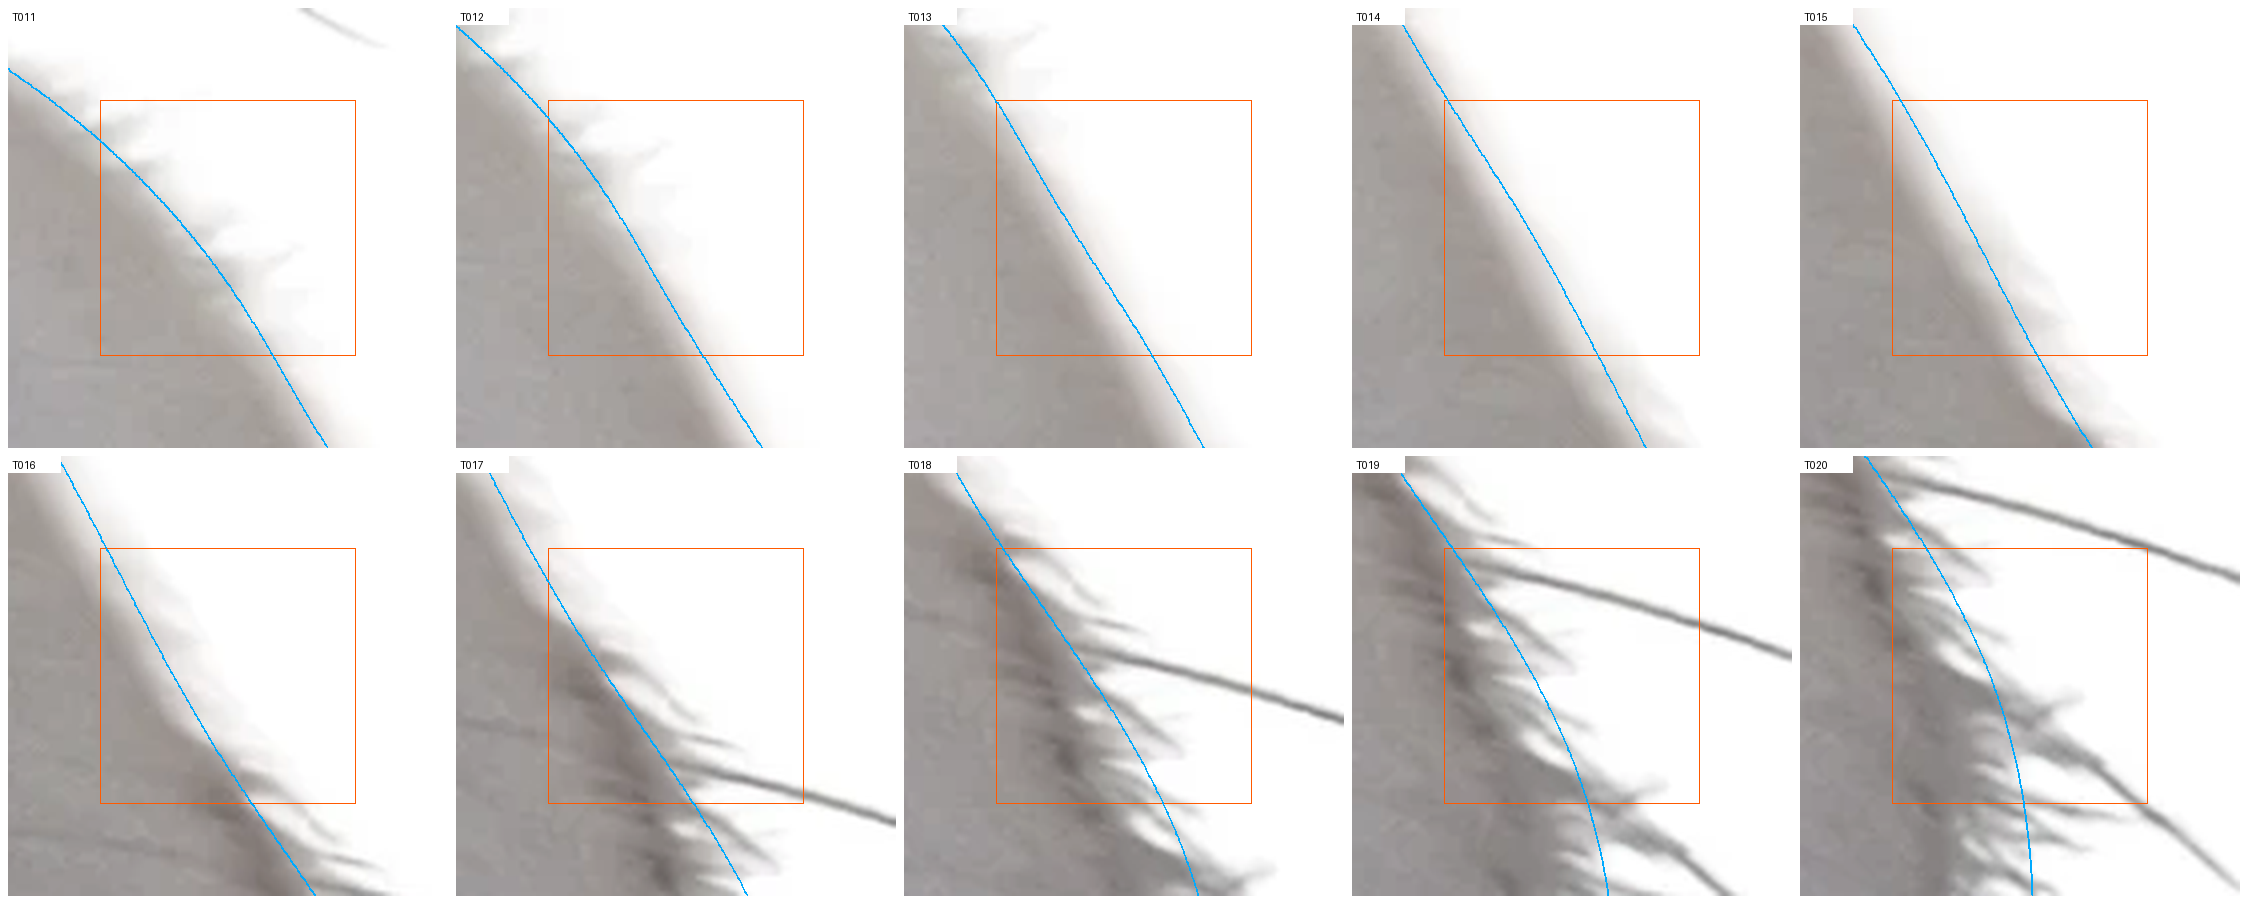
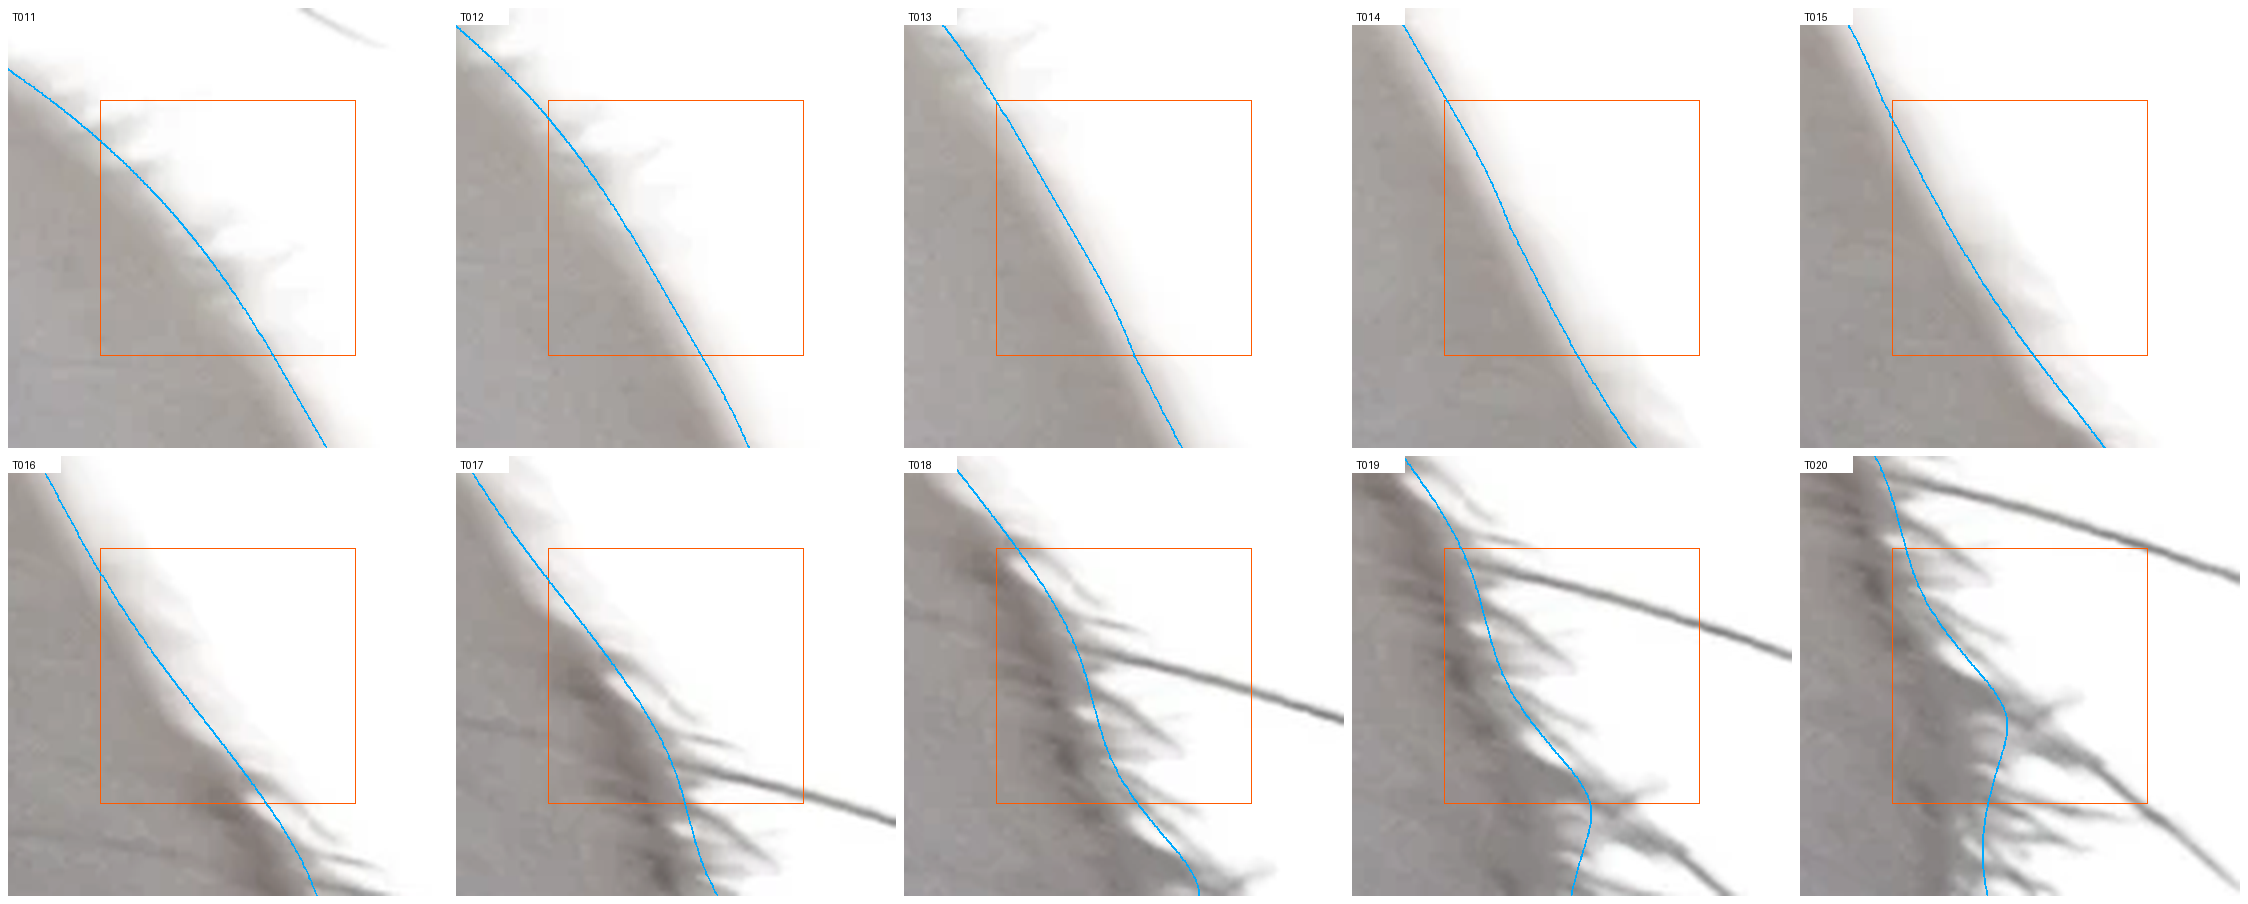
Outline batch1 (T013-T020) self-checked
Claude-Session: https://claude.ai/code/session_01GTfyFQVG4WXcpP4QQfGNqQ

diff --git a/tools/review_batch.py b/tools/review_batch.py
@@ -14,6 +14,7 @@ surroundings, outline in blue, tile in orange) and prints per-tile fidelity:
   into-fringe = gaps of the intermediate fur (strand-free coverage < 0.5) or
            background INSIDE the outline by more than FRINGE_TOL px
            -> the line is out in the intermediate fur instead of on his body
+           (skipped in the eye boxes: the black eye skews the coverage there)
   smooth = the outline is smoother than the raw edge in this tile
 
 Pixel convention: pixel (col, row) covers [col, col+1) x [row, row+1).
@@ -46,6 +47,9 @@ def fidelity(tiles, curve, rgb, a_free):
     # "solid body" = the dense mass CONNECTED to him; isolated dense clumps of
     # fringe hair out in the intermediate fur are not his body.
     body = bo.et.largest(a_free >= SOLID)
+    eye_zone = np.zeros(a_free.shape, bool)
+    for ex0, ey0, ex1, ey1 in bo.EYE_BOXES.values():
+        eye_zone[max(0, ey0 - 10):ey1 + 10, max(0, ex0 - 10):ex1 + 10] = True
     out = {}
     for t in tiles:
         x0, y0, x1, y1 = t["x0"], t["y0"], t["x1"], t["y1"]
@@ -59,6 +63,10 @@ def fidelity(tiles, curve, rgb, a_free):
         # line pushed out into the intermediate fur: fringe gaps INSIDE the line
         fringe_in = (a_free[y0:y1, x0:x1] < FRINGE_COV) & ~bg & inside & (dist > FRINGE_TOL)
         fringe_in |= bg & inside & (dist > FRINGE_TOL)
+        # The black eyes darken the local fur estimate, so light fur right next
+        # to them reads as half-transparent. Eye areas are covered by the
+        # eye-mark check and the locked approved top of head instead.
+        fringe_in &= ~eye_zone[y0:y1, x0:x1]
         bulge = bg & inside & (dist > BULGE_TOL)
         out[t["id"]] = {"cut_px": int(cut.sum()), "cut_max_px": round(float(dist[cut].max()), 2) if cut.any() else 0.0,
                         "bulge_px": int(bulge.sum()), "bulge_max_px": round(float(dist[bulge].max()), 2) if bulge.any() else 0.0,

diff --git a/docs/OWNER_QUESTIONS.md b/docs/OWNER_QUESTIONS.md
@@ -32,3 +32,7 @@ the owner's official opinion later. Each says what I did in the meantime.
 6. **Small notches between fur clumps** at the base of the fringe (3-5 px deep,
    e.g. T019-T031, T066-T081): the smooth body line bridges them rather than
    dipping into each one. *Meantime:* bridged, for a gentle edge.
+7. **Dense dark clump at the base of his fringe** (T019-T020, his left cheek,
+   image right): the body line swings out around it, treating it as body because
+   it's as dense as body fur. *Meantime:* kept as body; if it's intermediate fur,
+   the line should pass behind it.

diff --git a/docs/PROGRESS.md b/docs/PROGRESS.md
@@ -241,3 +241,4 @@ check.py output (if applicable), and the next step.
   top of head within 0.25 px of approved everywhere; both eyes viewed
   (`docs/images/eyes_after_lock.png`); eye marks 0 px out; hand-off 6.2 deg/2 px
   (same as his sides). Test added (12 pass).
+- **batch1 (T013-T020) outline: self-checked** on the recalibrated line. Fidelity: no cuts, no bulges, no into-fringe > 6 px, smoother everywhere; eye marks 0 px out; peet line inside.
